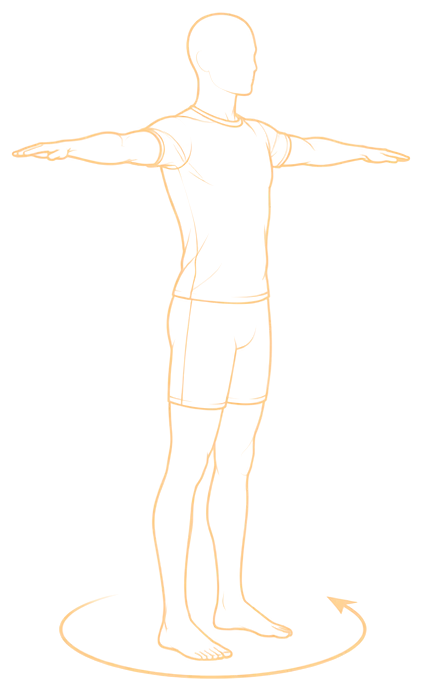
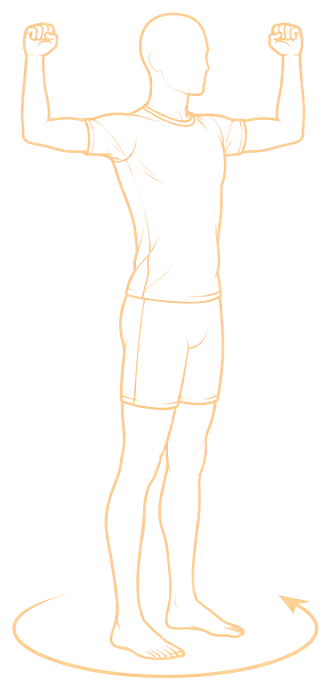
Body scan: goalpost figures from Daniel, shirtless tip
- Swap in Daniel's goalpost redraw (start screen + dashed camera guide)
- Guide sized so it no longer runs under the instructions
- Tip: shirtless is most accurate, otherwise a tight T-shirt

Claude-Session: https://claude.ai/code/session_01Y2WUq56Rr6P5xCkeq8Fw2T

diff --git a/style.css b/style.css
@@ -2340,7 +2340,7 @@ body.order-done-view > .process{display:none !important;}
 .bs-sheet.bs-full .ps-type button.selected{background:var(--brass);color:#16120d;}
 .bs-sheet.bs-full .bs-pose-svg{stroke:#d2b07a;filter:drop-shadow(0 0 6px rgba(201,164,103,0.55));animation:bs-breathe 2.8s ease-in-out infinite;}
 .bs-sheet.bs-full .bs-poses figure:nth-child(2) .bs-pose-svg,.bs-sheet.bs-full .bs-poses figure:nth-child(2) .bs-pose-img{animation-delay:1.4s;}
-.bs-pose-img{width:100%;max-width:170px;height:auto;aspect-ratio:568/670;object-fit:contain;filter:drop-shadow(0 0 6px rgba(201,164,103,0.45));animation:bs-breathe 2.8s ease-in-out infinite;}
+.bs-pose-img{width:100%;max-width:170px;height:auto;max-height:280px;object-fit:contain;filter:drop-shadow(0 0 6px rgba(201,164,103,0.45));animation:bs-breathe 2.8s ease-in-out infinite;}
 .bs-sheet.bs-camera .bs-card{padding:0;background:#000;}
 .bs-sheet.bs-camera .bs-card>*{max-width:none;}
 @media(min-width:901px){.bs-sheet.bs-camera .bs-card{max-width:560px;margin:auto;border-radius:20px;max-height:94dvh;}}
@@ -2348,7 +2348,7 @@ body.order-done-view > .process{display:none !important;}
 @keyframes bs-breathe{0%,100%{opacity:.75;transform:scale(1)}50%{opacity:1;transform:scale(1.04)}}
 /* Ghost T-pose: where to stand, until the camera finds the person. */
 .bs-ghost{position:absolute;inset:0;display:flex;align-items:center;justify-content:center;pointer-events:none;transition:opacity .4s;}
-.bs-ghost img{width:88%;max-height:78%;object-fit:contain;opacity:.8;animation:bs-breathe 2.4s ease-in-out infinite;}
+.bs-ghost img{width:88%;max-height:66%;margin-bottom:18%;object-fit:contain;opacity:.8;animation:bs-breathe 2.4s ease-in-out infinite;}
 .bs-ghost-off{opacity:0;}
 /* The scan line sweeping over the person while they turn. */
 .bs-scanline{position:absolute;left:0;right:0;height:3px;top:10%;background:linear-gradient(90deg,rgba(201,164,103,0),rgba(255,226,170,0.95),rgba(201,164,103,0));box-shadow:0 0 24px 6px rgba(201,164,103,0.45);animation:bs-sweep 2.6s ease-in-out infinite alternate;pointer-events:none;}

diff --git a/index.html b/index.html
@@ -121,7 +121,7 @@
 <meta property="og:image:alt" content="Scott Suits — Custom Tailoring logo">
 <meta name="twitter:card" content="summary_large_image">
 <meta name="twitter:image" content="https://scottssuits.com/assets/share-image-square-safe.jpg">
-<link rel="stylesheet" href="./style.css?v=20261103figures">
+<link rel="stylesheet" href="./style.css?v=20261103figs2">
 <script data-goatcounter="https://scottssuits.goatcounter.com/count" async src="//gc.zgo.at/count.js"></script>
 <script src="./brand.js?v=20261102notimer"></script>
 <link rel="stylesheet" href="./brand.css?v=20261026fabricphotos">
@@ -1072,7 +1072,7 @@
 <script src="./main.js?v=20261103bodyscan"></script>
 <script src="./photo-suit.js?v=20261103photoorlink"></script>
 <!-- Phone body scan: hidden test feature, loaded only with ?bodyscan=1. -->
-<script>if (/[?&]bodyscan=1\b/.test(location.search)) { var bsS = document.createElement("script"); bsS.src = "./body-scan.js?v=20261103goalpost"; document.body.appendChild(bsS); }</script>
+<script>if (/[?&]bodyscan=1\b/.test(location.search)) { var bsS = document.createElement("script"); bsS.src = "./body-scan.js?v=20261103figs2"; document.body.appendChild(bsS); }</script>
 <!-- Interactive Jacket switched off for now (Daniel, 2026-10-18). To bring it back, restore:
 <script src="./jacket-studio.js?v=20261101redrawload"></script> -->
 

diff --git a/body-scan.js b/body-scan.js
@@ -675,7 +675,7 @@
       '<p class="bs-lead">Raise your arms like a goalpost, then turn around once, slowly. Your phone measures you from every side. Takes under a minute.</p>' +
       '<div class="bs-poses" aria-hidden="true">' + poseSvg("front") + poseSvg("spin") + "</div>" +
       '<ol class="bs-tips">' +
-      "<li><b>Wear fitted clothes:</b> a snug T-shirt and shorts or leggings. No jacket, no baggy clothes.</li>" +
+      "<li><b>Shirtless is most accurate</b> (like a tailor's tape on skin). Otherwise a tight T-shirt. Snug shorts or leggings, nothing baggy.</li>" +
       "<li><b>Barefoot or socks,</b> hair flat, nothing in your pockets.</li>" +
       "<li><b>Plain wall, good light,</b> nobody else in the picture.</li>" +
       "<li><b>Lean the phone at waist height</b> (on a chair or shelf), then step back about 8 feet. Or have a friend hold it.</li>" +
